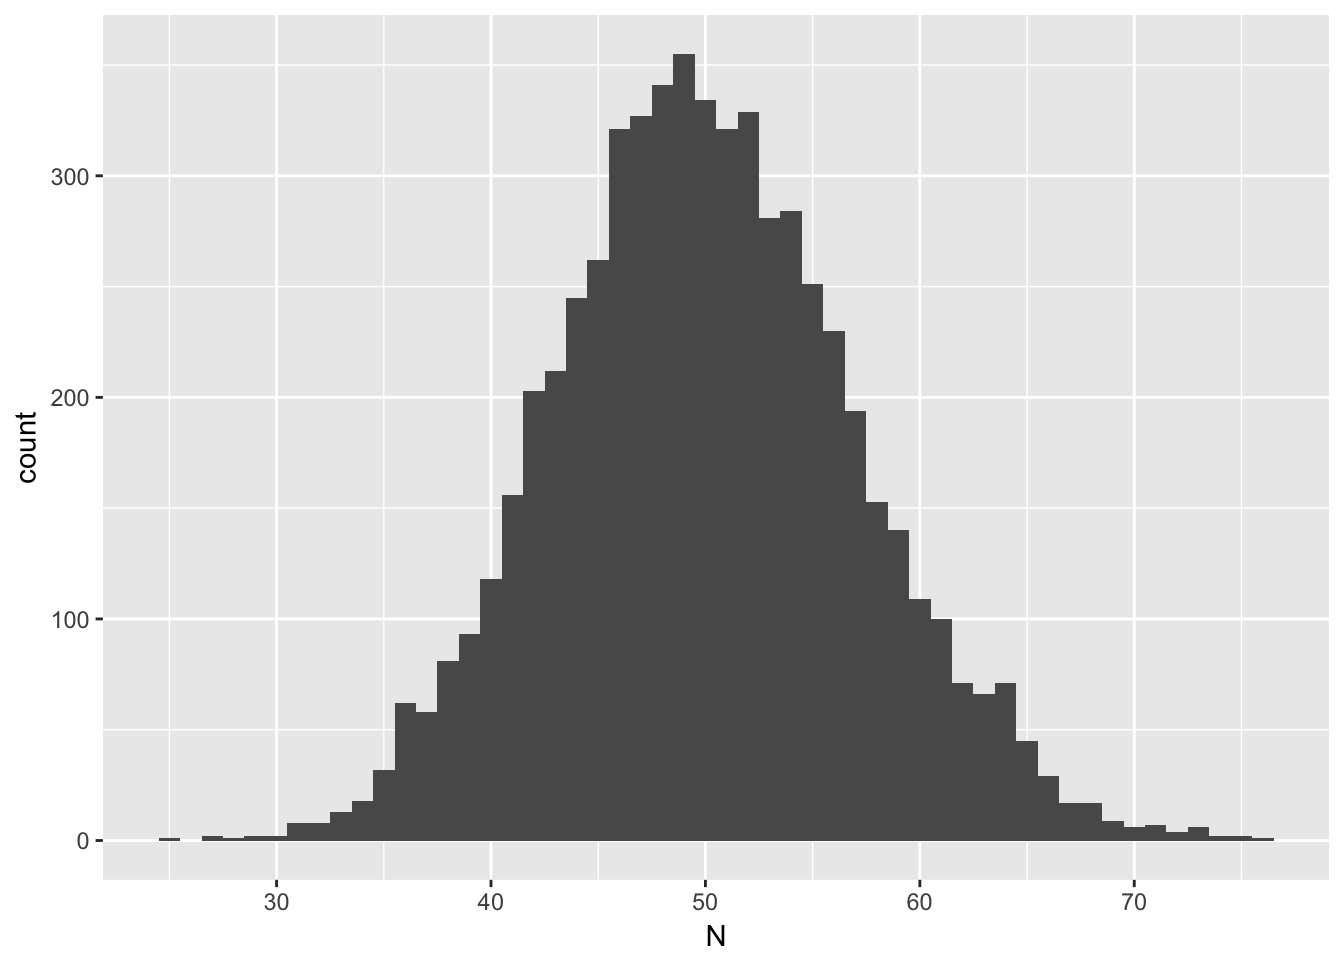
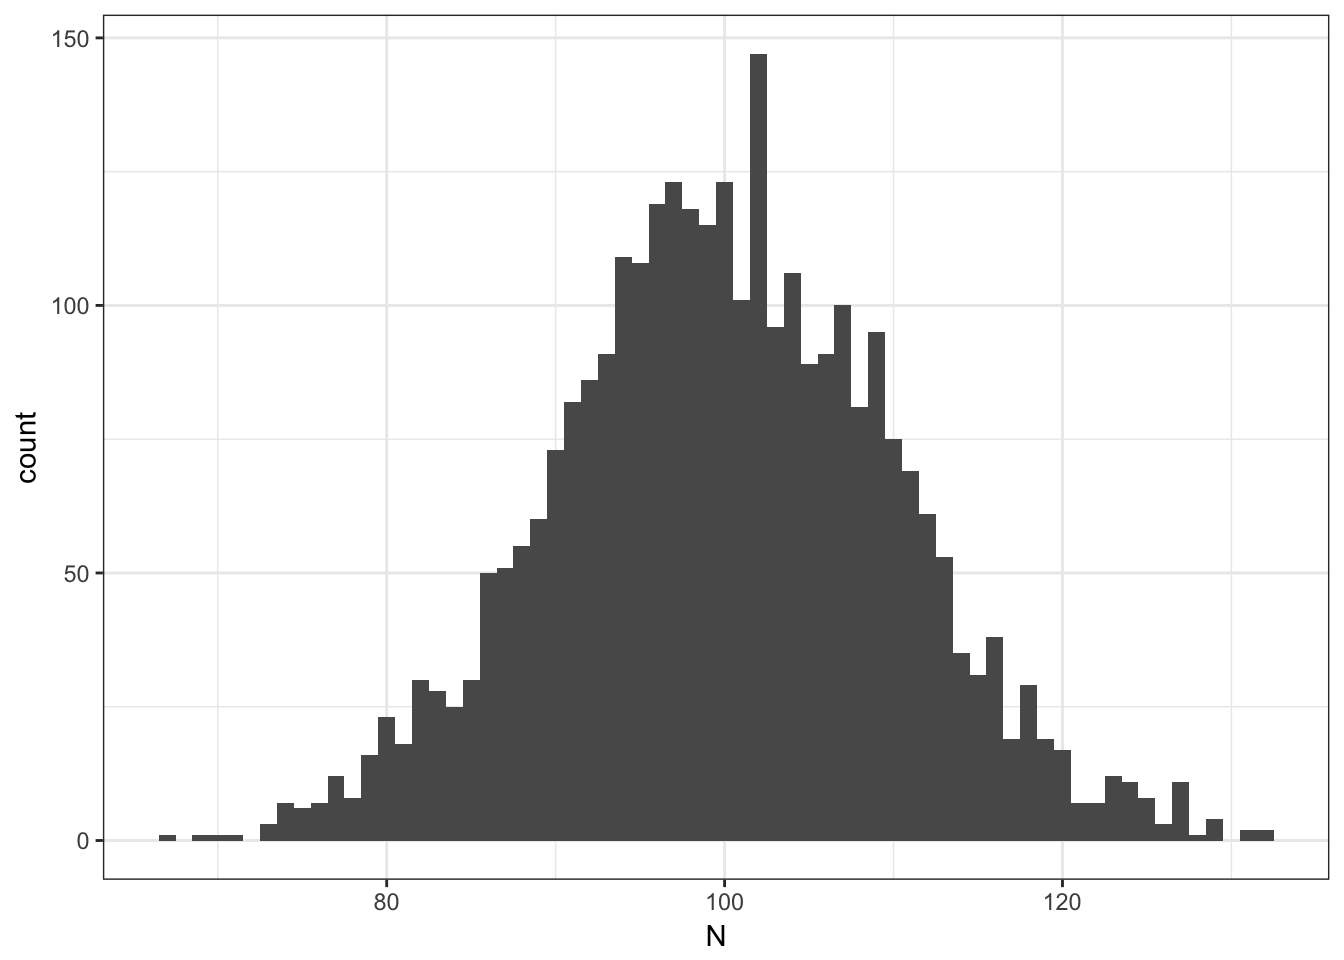
- updating documentation

diff --git a/docs/articles/example.html b/docs/articles/example.html
@@ -64,7 +64,7 @@
     <div class="page-header toc-ignore">
       <h1>BLM example using simulated data</h1>
             
-            <h4 class="date">13 November, 2017</h4>
+            <h4 class="date">07 May, 2018</h4>
           </div>
 
     
@@ -78,8 +78,16 @@
 <div id="simulating-a-data-set" class="section level1">
 <h1 class="hasAnchor">
 <a href="#simulating-a-data-set" class="anchor"></a>Simulating a data set</h1>
-<div class="sourceCode"><pre class="sourceCode r"><code class="sourceCode r"><span class="kw">set.seed</span>(<span class="dv">43243123</span>)
+<div class="sourceCode"><pre class="sourceCode r"><code class="sourceCode r"><span class="kw">set.seed</span>(<span class="dv">324313</span>)
 model =<span class="st"> </span><span class="kw"><a href="../reference/m2.mini.new.html">m2.mini.new</a></span>(<span class="dv">10</span>,<span class="dt">serial =</span> F,<span class="dt">fixb=</span>T)
+
+<span class="co"># we set the parameters to something simple</span>
+model<span class="op">$</span>A1 =<span class="st"> </span><span class="kw">seq</span>(<span class="dv">0</span>,<span class="dv">2</span>,<span class="dt">l=</span>model<span class="op">$</span>nf)
+model<span class="op">$</span>A2 =<span class="st"> </span><span class="kw">seq</span>(<span class="dv">0</span>,<span class="dv">2</span>,<span class="dt">l=</span>model<span class="op">$</span>nf)
+model<span class="op">$</span>B1 =<span class="st"> </span><span class="kw">seq</span>(<span class="dv">1</span>,<span class="dv">2</span>,<span class="dt">l=</span>model<span class="op">$</span>nf) <span class="co"># adding complementarity</span>
+model<span class="op">$</span>B2 =<span class="st"> </span><span class="kw">seq</span>(<span class="dv">1</span>,<span class="dv">2</span>,<span class="dt">l=</span>model<span class="op">$</span>nf)
+model<span class="op">$</span>Em =<span class="st"> </span><span class="kw">seq</span>(<span class="dv">0</span>,<span class="dv">1</span>,<span class="dt">l=</span>model<span class="op">$</span>nf) <span class="co"># adding sorting</span>
+
 model<span class="op">$</span>Ns   =<span class="st"> </span><span class="kw">array</span>(<span class="dv">300000</span><span class="op">/</span>model<span class="op">$</span>nf,model<span class="op">$</span>nf)
 model<span class="op">$</span>Nm   =<span class="st"> </span><span class="dv">10</span><span class="op">*</span><span class="kw">toeplitz</span>(<span class="kw">ceiling</span>(<span class="kw">seq</span>(<span class="dv">100</span>,<span class="dv">10</span>,<span class="dt">l=</span>model<span class="op">$</span>nf)))
 sdata =<span class="st"> </span><span class="kw"><a href="../reference/m2.mini.simulate.stayers.html">m2.mini.simulate.stayers</a></span>(model,model<span class="op">$</span>Ns)
@@ -88,11 +96,11 @@ jdata =<span class="st"> </span><span class="kw"><a href="../reference/m2.mini.s
 <span class="co"># compute decomposition</span>
 stayer_share =<span class="st"> </span><span class="kw">sum</span>(model<span class="op">$</span>Ns)<span class="op">/</span>(<span class="kw">sum</span>(model<span class="op">$</span>Ns)<span class="op">+</span><span class="kw">sum</span>(model<span class="op">$</span>Nm))
 model<span class="op">$</span>vdec   =<span class="st"> </span><span class="kw"><a href="../reference/m2.mini.vdec.html">m2.mini.vdec</a></span>(model,<span class="fl">1e6</span>,stayer_share,<span class="st">"y1"</span>)</code></pre></div>
-<pre><code>## INFO [2017-11-13 14:36:58] computing var decomposition with ns=817440 nm=182550
-##   cor_kl cov_kl  var_k var_l    rsq
-## 1 0.1837  0.154 0.4821 0.364 0.9207</code></pre>
+<pre><code>## INFO [2018-05-07 16:39:11] computing var decomposition with ns=817440 nm=182550
+##   cor_kl cov_kl  var_k  var_l    rsq
+## 1 0.2352   0.14 0.7405 0.1195 0.7881</code></pre>
 <div class="sourceCode"><pre class="sourceCode r"><code class="sourceCode r"><span class="co"># randomly assign firm IDs</span>
-sdata &lt;-<span class="st"> </span>sdata[,f1<span class="op">:</span><span class="er">=</span><span class="kw">paste</span>(<span class="st">"F"</span>,j1 <span class="op">+</span><span class="st"> </span>model<span class="op">$</span>nf<span class="op">*</span>(<span class="kw">sample.int</span>(.N<span class="op">/</span><span class="dv">50</span>,.N,<span class="dt">replace=</span>T)<span class="op">-</span><span class="dv">1</span>),<span class="dt">sep=</span><span class="st">""</span>),j1]
+sdata &lt;-<span class="st"> </span>sdata[,f1<span class="op">:</span><span class="er">=</span><span class="kw">paste</span>(<span class="st">"F"</span>,j1 <span class="op">+</span><span class="st"> </span>model<span class="op">$</span>nf<span class="op">*</span>(<span class="kw">sample.int</span>(.N<span class="op">/</span><span class="dv">100</span>,.N,<span class="dt">replace=</span>T)<span class="op">-</span><span class="dv">1</span>),<span class="dt">sep=</span><span class="st">""</span>),j1]
 sdata &lt;-<span class="st"> </span>sdata[,j1b<span class="op">:</span><span class="er">=</span>j1]
 sdata &lt;-<span class="st"> </span>sdata[,j1true <span class="op">:</span><span class="er">=</span><span class="st"> </span>j1]
 jdata &lt;-<span class="st"> </span>jdata[,j1true <span class="op">:</span><span class="er">=</span><span class="st"> </span>j1][,j2true <span class="op">:</span><span class="er">=</span><span class="st"> </span>j2]
@@ -108,7 +116,7 @@ sdata<span class="op">$</span>j1b=<span class="ot">NULL</span>
 ad =<span class="st"> </span><span class="kw">list</span>(<span class="dt">sdata=</span>sdata,<span class="dt">jdata=</span>jdata)
 
 <span class="co"># plot firm size distribution</span>
-<span class="kw">ggplot</span>(ad<span class="op">$</span>sdata[,.N,f1],<span class="kw">aes</span>(<span class="dt">x=</span>N)) <span class="op">+</span><span class="st"> </span><span class="kw">geom_histogram</span>(<span class="dt">binwidth=</span><span class="dv">1</span>)</code></pre></div>
+<span class="kw">ggplot</span>(ad<span class="op">$</span>sdata[,.N,f1],<span class="kw">aes</span>(<span class="dt">x=</span>N)) <span class="op">+</span><span class="st"> </span><span class="kw">geom_histogram</span>(<span class="dt">binwidth=</span><span class="dv">1</span>) <span class="op">+</span><span class="st"> </span><span class="kw">theme_bw</span>()</code></pre></div>
 <p><img src="example_files/figure-html/unnamed-chunk-2-1.png" width="672"></p>
 </div>
 <div id="clustering-firms" class="section level1">
@@ -116,24 +124,25 @@ ad =<span class="st"> </span><span class="kw">list</span>(<span class="dt">sdata
 <a href="#clustering-firms" class="anchor"></a>Clustering firms</h1>
 <p>We start by extracting the measures that will be used to cluster</p>
 <div class="sourceCode"><pre class="sourceCode r"><code class="sourceCode r">ms    =<span class="st"> </span><span class="kw"><a href="../reference/grouping.getMeasures.html">grouping.getMeasures</a></span>(ad,<span class="st">"ecdf"</span>,<span class="dt">Nw=</span><span class="dv">20</span>,<span class="dt">y_var =</span> <span class="st">"y1"</span>)</code></pre></div>
-<pre><code>## INFO [2017-11-13 14:37:06] processing 6000 firms
-## INFO [2017-11-13 14:37:06] computing measures...
-## INFO [2017-11-13 14:37:06] computing weights...</code></pre>
+<pre><code>## INFO [2018-05-07 16:39:20] processing 3000 firms
+## INFO [2018-05-07 16:39:20] computing measures...
+## INFO [2018-05-07 16:39:20] computing weights...</code></pre>
 <div class="sourceCode"><pre class="sourceCode r"><code class="sourceCode r"><span class="co"># then we group we choose k=10</span>
 grps  =<span class="st"> </span><span class="kw"><a href="../reference/grouping.classify.once.html">grouping.classify.once</a></span>(ms,<span class="dt">k =</span> <span class="dv">10</span>,<span class="dt">nstart =</span> <span class="dv">1000</span>,<span class="dt">iter.max =</span> <span class="dv">200</span>,<span class="dt">step=</span><span class="dv">250</span>)</code></pre></div>
-<pre><code>## INFO [2017-11-13 14:37:06] clustering T=50.999467, Nw=20 , measure=ecdf
-## INFO [2017-11-13 14:37:06] running weigthed kmeans step=250 total=1000
-## INFO [2017-11-13 14:37:06] nobs=6000 nmeasures=20
-## INFO [2017-11-13 14:37:08] [25%] tot=445.183986 best=445.183986 &lt;&lt;&lt;&lt;
-## INFO [2017-11-13 14:37:10] [50%] tot=445.183986 best=445.183986
-## INFO [2017-11-13 14:37:12] [75%] tot=445.183986 best=445.183986
-## INFO [2017-11-13 14:37:14] [100%] tot=445.183986 best=445.183986
-## INFO [2017-11-13 14:37:14] k=10 WSS=445.183986 nstart=1000 nfrims=6000</code></pre>
+<pre><code>## INFO [2018-05-07 16:39:20] clustering T=101.015687, Nw=20 , measure=ecdf
+## INFO [2018-05-07 16:39:20] running weigthed kmeans step=250 total=1000
+## INFO [2018-05-07 16:39:20] nobs=3000 nmeasures=20
+## INFO [2018-05-07 16:39:21] [25%] tot=356.169194 best=356.169194 &lt;&lt;&lt;&lt;
+## INFO [2018-05-07 16:39:23] [50%] tot=356.169194 best=356.169194
+## INFO [2018-05-07 16:39:24] [75%] tot=356.169194 best=356.169194
+## INFO [2018-05-07 16:39:25] [100%] tot=356.169194 best=356.169194
+## INFO [2018-05-07 16:39:25] k=10 WSS=356.169194 nstart=1000 nfrims=3000</code></pre>
 <div class="sourceCode"><pre class="sourceCode r"><code class="sourceCode r"><span class="co"># finally we append the results to adata</span>
 ad   =<span class="st"> </span><span class="kw"><a href="../reference/grouping.append.html">grouping.append</a></span>(ad,grps<span class="op">$</span>best_cluster,<span class="dt">drop=</span>T)
 
 <span class="co"># we can also check the classification</span>
-<span class="kw">ggplot</span>(ad<span class="op">$</span>sdata[,.N,<span class="kw">list</span>(j1,j1true)],<span class="kw">aes</span>(<span class="dt">x=</span>j1true,<span class="dt">y=</span>j1,<span class="dt">size=</span>N)) <span class="op">+</span><span class="st"> </span><span class="kw">geom_point</span>()</code></pre></div>
+<span class="kw">ggplot</span>(ad<span class="op">$</span>sdata[,.N,<span class="kw">list</span>(j1,j1true)],<span class="kw">aes</span>(<span class="dt">x=</span>j1true,<span class="dt">y=</span>j1,<span class="dt">size=</span>N)) <span class="op">+</span><span class="st"> </span><span class="kw">geom_point</span>() <span class="op">+</span><span class="st"> </span><span class="kw">theme_bw</span>() <span class="op">+</span>
+<span class="st">  </span><span class="kw">scale_x_continuous</span>(<span class="st">"true type"</span>) <span class="op">+</span><span class="st"> </span><span class="kw">scale_y_continuous</span>(<span class="st">"estimated group"</span>)</code></pre></div>
 <p><img src="example_files/figure-html/unnamed-chunk-3-1.png" width="672"></p>
 <p>In the previous command we tell rblm that we want to use the firm specific empirical measure “ecdf” with 20 points of supports and that the dependent variable is “y1”. The firm identifier should be “f1”.</p>
 </div>
@@ -142,11 +151,11 @@ ad   =<span class="st"> </span><span class="kw"><a href="../reference/grouping.a
 <a href="#estimating-the-model" class="anchor"></a>Estimating the model</h1>
 <p>This is a relatively old code, we will be pushing an update extremely soon!</p>
 <div class="sourceCode"><pre class="sourceCode r"><code class="sourceCode r">res =<span class="st"> </span><span class="kw"><a href="../reference/m2.mini.estimate.html">m2.mini.estimate</a></span>(ad<span class="op">$</span>jdata,ad<span class="op">$</span>sdata,<span class="dt">model0 =</span> model,<span class="dt">method =</span> <span class="st">"fixb"</span>)</code></pre></div>
-<pre><code>## INFO [2017-11-13 14:37:15] computing var decomposition with ns=817440 nm=182559
+<pre><code>## INFO [2018-05-07 16:39:26] computing var decomposition with ns=817438 nm=182560
 ##   cor_kl cov_kl  var_k  var_l    rsq
-## 1 0.1805 0.1516 0.4852 0.3632 0.9196</code></pre>
+## 1 0.2406  0.141 0.7438 0.1153 0.7887</code></pre>
 <p><img src="example_files/figure-html/unnamed-chunk-4-1.png" width="672"></p>
-<pre><code>## cor with true model:0.987043</code></pre>
+<pre><code>## cor with true model:0.961121</code></pre>
 <p>We can show the decompositions next to each other:</p>
 <div class="sourceCode"><pre class="sourceCode r"><code class="sourceCode r"><span class="kw"><a href="http://www.rdocumentation.org/packages/knitr/topics/kable">kable</a></span>(<span class="kw">rbind</span>(model<span class="op">$</span>vdec<span class="op">$</span>stats,res<span class="op">$</span>vdec<span class="op">$</span>stats),<span class="dt">digits =</span> <span class="dv">4</span>) <span class="op">%&gt;%</span>
 <span class="st">  </span><span class="kw"><a href="http://www.rdocumentation.org/packages/kableExtra/topics/kable_styling">kable_styling</a></span>(<span class="dt">bootstrap_options =</span> <span class="kw">c</span>(<span class="st">"striped"</span>, <span class="st">"bordered"</span>,<span class="st">"condensed"</span>), <span class="dt">full_width =</span> F)</code></pre></div>
@@ -171,53 +180,135 @@ rsq
 <tbody>
 <tr>
 <td style="text-align:left;">
-0.1837
+0.2352
 </td>
 <td style="text-align:left;">
-0.154
+0.14
 </td>
 <td style="text-align:left;">
-0.4821
+0.7405
 </td>
 <td style="text-align:left;">
-0.364
+0.1195
 </td>
 <td style="text-align:left;">
-0.9207
+0.7881
 </td>
 </tr>
 <tr>
 <td style="text-align:left;">
-0.1805
+0.2406
 </td>
 <td style="text-align:left;">
-0.1516
+0.141
 </td>
 <td style="text-align:left;">
-0.4852
+0.7438
 </td>
 <td style="text-align:left;">
-0.3632
+0.1153
 </td>
 <td style="text-align:left;">
-0.9196
+0.7887
 </td>
 </tr>
 </tbody>
 </table>
-<p>And we can plot the resulting wage</p>
-<div class="sourceCode"><pre class="sourceCode r"><code class="sourceCode r"><span class="kw"><a href="../reference/m2.mini.plotw.html">m2.mini.plotw</a></span>(res)</code></pre></div>
+<p>And we can plot the resulting wage, next to the true ones</p>
+<div class="sourceCode"><pre class="sourceCode r"><code class="sourceCode r"><span class="kw"><a href="../reference/m2.mini.plotw.html">m2.mini.plotw</a></span>(res)    <span class="op">+</span><span class="st"> </span><span class="kw">ggtitle</span>(<span class="st">"Estimated wages"</span>)</code></pre></div>
 <p><img src="example_files/figure-html/unnamed-chunk-6-1.png" width="672"></p>
-</div>
-<div id="extract-all-necesserary-moments-for-off-line-estimation" class="section level1">
-<h1 class="hasAnchor">
-<a href="#extract-all-necesserary-moments-for-off-line-estimation" class="anchor"></a>Extract all necesserary moments for off-line estimation</h1>
+<div class="sourceCode"><pre class="sourceCode r"><code class="sourceCode r"><span class="kw"><a href="../reference/m2.mini.plotw.html">m2.mini.plotw</a></span>(model)  <span class="op">+</span><span class="st"> </span><span class="kw">ggtitle</span>(<span class="st">"Model wages"</span>)</code></pre></div>
+<p><img src="example_files/figure-html/unnamed-chunk-6-2.png" width="672"></p>
+<div id="estimating-using-quasi-likelihood" class="section level2">
+<h2 class="hasAnchor">
+<a href="#estimating-using-quasi-likelihood" class="anchor"></a>Estimating using quasi-likelihood</h2>
+<p>This is a new estimator we have been working on.</p>
+<p>We start by extracting all necesserary moments for off-line estimation:</p>
 <div class="sourceCode"><pre class="sourceCode r"><code class="sourceCode r">mstats =<span class="st"> </span>ad<span class="op">$</span>jdata[,<span class="kw">list</span>(<span class="dt">m1=</span><span class="kw">mean</span>(y1),<span class="dt">sd1=</span><span class="kw">sd</span>(y1),
                          <span class="dt">m2=</span><span class="kw">mean</span>(y2),<span class="dt">sd2=</span><span class="kw">sd</span>(y2),
                          <span class="dt">v12 =</span> <span class="kw">cov</span>(y1,y2),.N),<span class="kw">list</span>(j1,j2)]
 cstats =<span class="st"> </span>ad<span class="op">$</span>sdata[,<span class="kw">list</span>(<span class="dt">m1=</span><span class="kw">mean</span>(y1),<span class="dt">sd1=</span><span class="kw">sd</span>(y1),
                          <span class="dt">m2=</span><span class="kw">mean</span>(y2),<span class="dt">sd2=</span><span class="kw">sd</span>(y2),
                          <span class="dt">v12 =</span> <span class="kw">cov</span>(y1,y2),.N),<span class="kw">list</span>(j1)]</code></pre></div>
+<p>Then we estimate using the quasi-likelihood estimator:</p>
+<div class="sourceCode"><pre class="sourceCode r"><code class="sourceCode r">res2 =<span class="st"> </span><span class="kw">m2.minirc.estimate</span>(cstats,mstats,<span class="dt">method =</span> <span class="dv">2</span>)</code></pre></div>
+<p>here is the variance decomposition:</p>
+<div class="sourceCode"><pre class="sourceCode r"><code class="sourceCode r">dd =<span class="st"> </span><span class="kw">rbind</span>(model<span class="op">$</span>vdec<span class="op">$</span>stats,res<span class="op">$</span>vdec<span class="op">$</span>stats,res2<span class="op">$</span>vdec<span class="op">$</span>stats)
+<span class="kw"><a href="http://www.rdocumentation.org/packages/knitr/topics/kable">kable</a></span>(dd,<span class="dt">digits =</span> <span class="dv">4</span>) <span class="op">%&gt;%</span>
+<span class="st">  </span><span class="kw"><a href="http://www.rdocumentation.org/packages/kableExtra/topics/kable_styling">kable_styling</a></span>(<span class="dt">bootstrap_options =</span> <span class="kw">c</span>(<span class="st">"striped"</span>, <span class="st">"bordered"</span>,<span class="st">"condensed"</span>), <span class="dt">full_width =</span> F)</code></pre></div>
+<?xml version="1.0" encoding="UTF-8"?><table class="table" style="width: auto !important; margin-left: auto; margin-right: auto;">
+<thead><tr>
+<th style="text-align:left;">
+cor_kl
+</th>
+<th style="text-align:left;">
+cov_kl
+</th>
+<th style="text-align:left;">
+var_k
+</th>
+<th style="text-align:left;">
+var_l
+</th>
+<th style="text-align:left;">
+rsq
+</th>
+</tr></thead>
+<tbody>
+<tr>
+<td style="text-align:left;">
+0.2352
+</td>
+<td style="text-align:left;">
+0.14
+</td>
+<td style="text-align:left;">
+0.7405
+</td>
+<td style="text-align:left;">
+0.1195
+</td>
+<td style="text-align:left;">
+0.7881
+</td>
+</tr>
+<tr>
+<td style="text-align:left;">
+0.2406
+</td>
+<td style="text-align:left;">
+0.141
+</td>
+<td style="text-align:left;">
+0.7438
+</td>
+<td style="text-align:left;">
+0.1153
+</td>
+<td style="text-align:left;">
+0.7887
+</td>
+</tr>
+<tr>
+<td style="text-align:left;">
+0.2451
+</td>
+<td style="text-align:left;">
+0.1452
+</td>
+<td style="text-align:left;">
+0.7357
+</td>
+<td style="text-align:left;">
+0.1192
+</td>
+<td style="text-align:left;">
+0.7705
+</td>
+</tr>
+</tbody>
+</table>
+</div>
 </div>
 </div>
   </div>
@@ -229,8 +320,11 @@ cstats =<span class="st"> </span>ad<span class="op">$</span>sdata[,<span class="
       <ul class="nav nav-pills nav-stacked">
 <li><a href="#simulating-a-data-set">Simulating a data set</a></li>
       <li><a href="#clustering-firms">Clustering firms</a></li>
-      <li><a href="#estimating-the-model">Estimating the model</a></li>
-      <li><a href="#extract-all-necesserary-moments-for-off-line-estimation">Extract all necesserary moments for off-line estimation</a></li>
+      <li>
+<a href="#estimating-the-model">Estimating the model</a><ul class="nav nav-pills nav-stacked">
+<li><a href="#estimating-using-quasi-likelihood">Estimating using quasi-likelihood</a></li>
+      </ul>
+</li>
       </ul>
 </div>
       </div>

diff --git a/docs/reference/index.html b/docs/reference/index.html
@@ -236,6 +236,18 @@ and we want to do it in a non-stationary way.</p></td>
         </tr><tr>
           <!--  -->
           <td>
+            <p><code><a href="m2.mini.rc.lik.grad.html">m2.mini.rc.lik.grad</a></code> </p>
+          </td>
+          <td><p>gradient function</p></td>
+        </tr><tr>
+          <!--  -->
+          <td>
+            <p><code><a href="m2.mini.rc.lik.html">m2.mini.rc.lik</a></code> </p>
+          </td>
+          <td><p>Random coefficient estimator for the mini-model</p></td>
+        </tr><tr>
+          <!--  -->
+          <td>
             <p><code><a href="m2.mini.simulate.movers.html">m2.mini.simulate.movers</a></code> </p>
           </td>
           <td><p>simulate movers according to the model</p></td>
@@ -251,6 +263,12 @@ and we want to do it in a non-stationary way.</p></td>
             <p><code><a href="m2.mini.vdec.html">m2.mini.vdec</a></code> </p>
           </td>
           <td><p>Computes the variance decomposition by simulation</p></td>
+        </tr><tr>
+          <!--  -->
+          <td>
+            <p><code><a href="m2.miniql.estimate.html">m2.miniql.estimate</a></code> </p>
+          </td>
+          <td><p>estimates interacted model using quasi-linkelood on the data moments</p></td>
         </tr>
       </tbody>
       </table>

diff --git a/docs/reference/hello.html b/docs/reference/hello.html
@@ -98,9 +98,7 @@
         
 
     <h2 class="hasAnchor" id="examples"><a class="anchor" href="#examples"></a>Examples</h2>
-    <pre class="examples"><span class='co'># NOT RUN {</span>
-<span class='fu'>hello</span>()
-<span class='co'># }</span></pre>
+    <pre class="examples"><div class='input'><span class='fu'>hello</span>()</div><div class='output co'>#&gt; <span class='error'>Error in eval(expr, envir, enclos): could not find function "hello"</span></div></pre>
   </div>
   <div class="col-md-3 hidden-xs hidden-sm" id="sidebar">
     <h2>Contents</h2>
